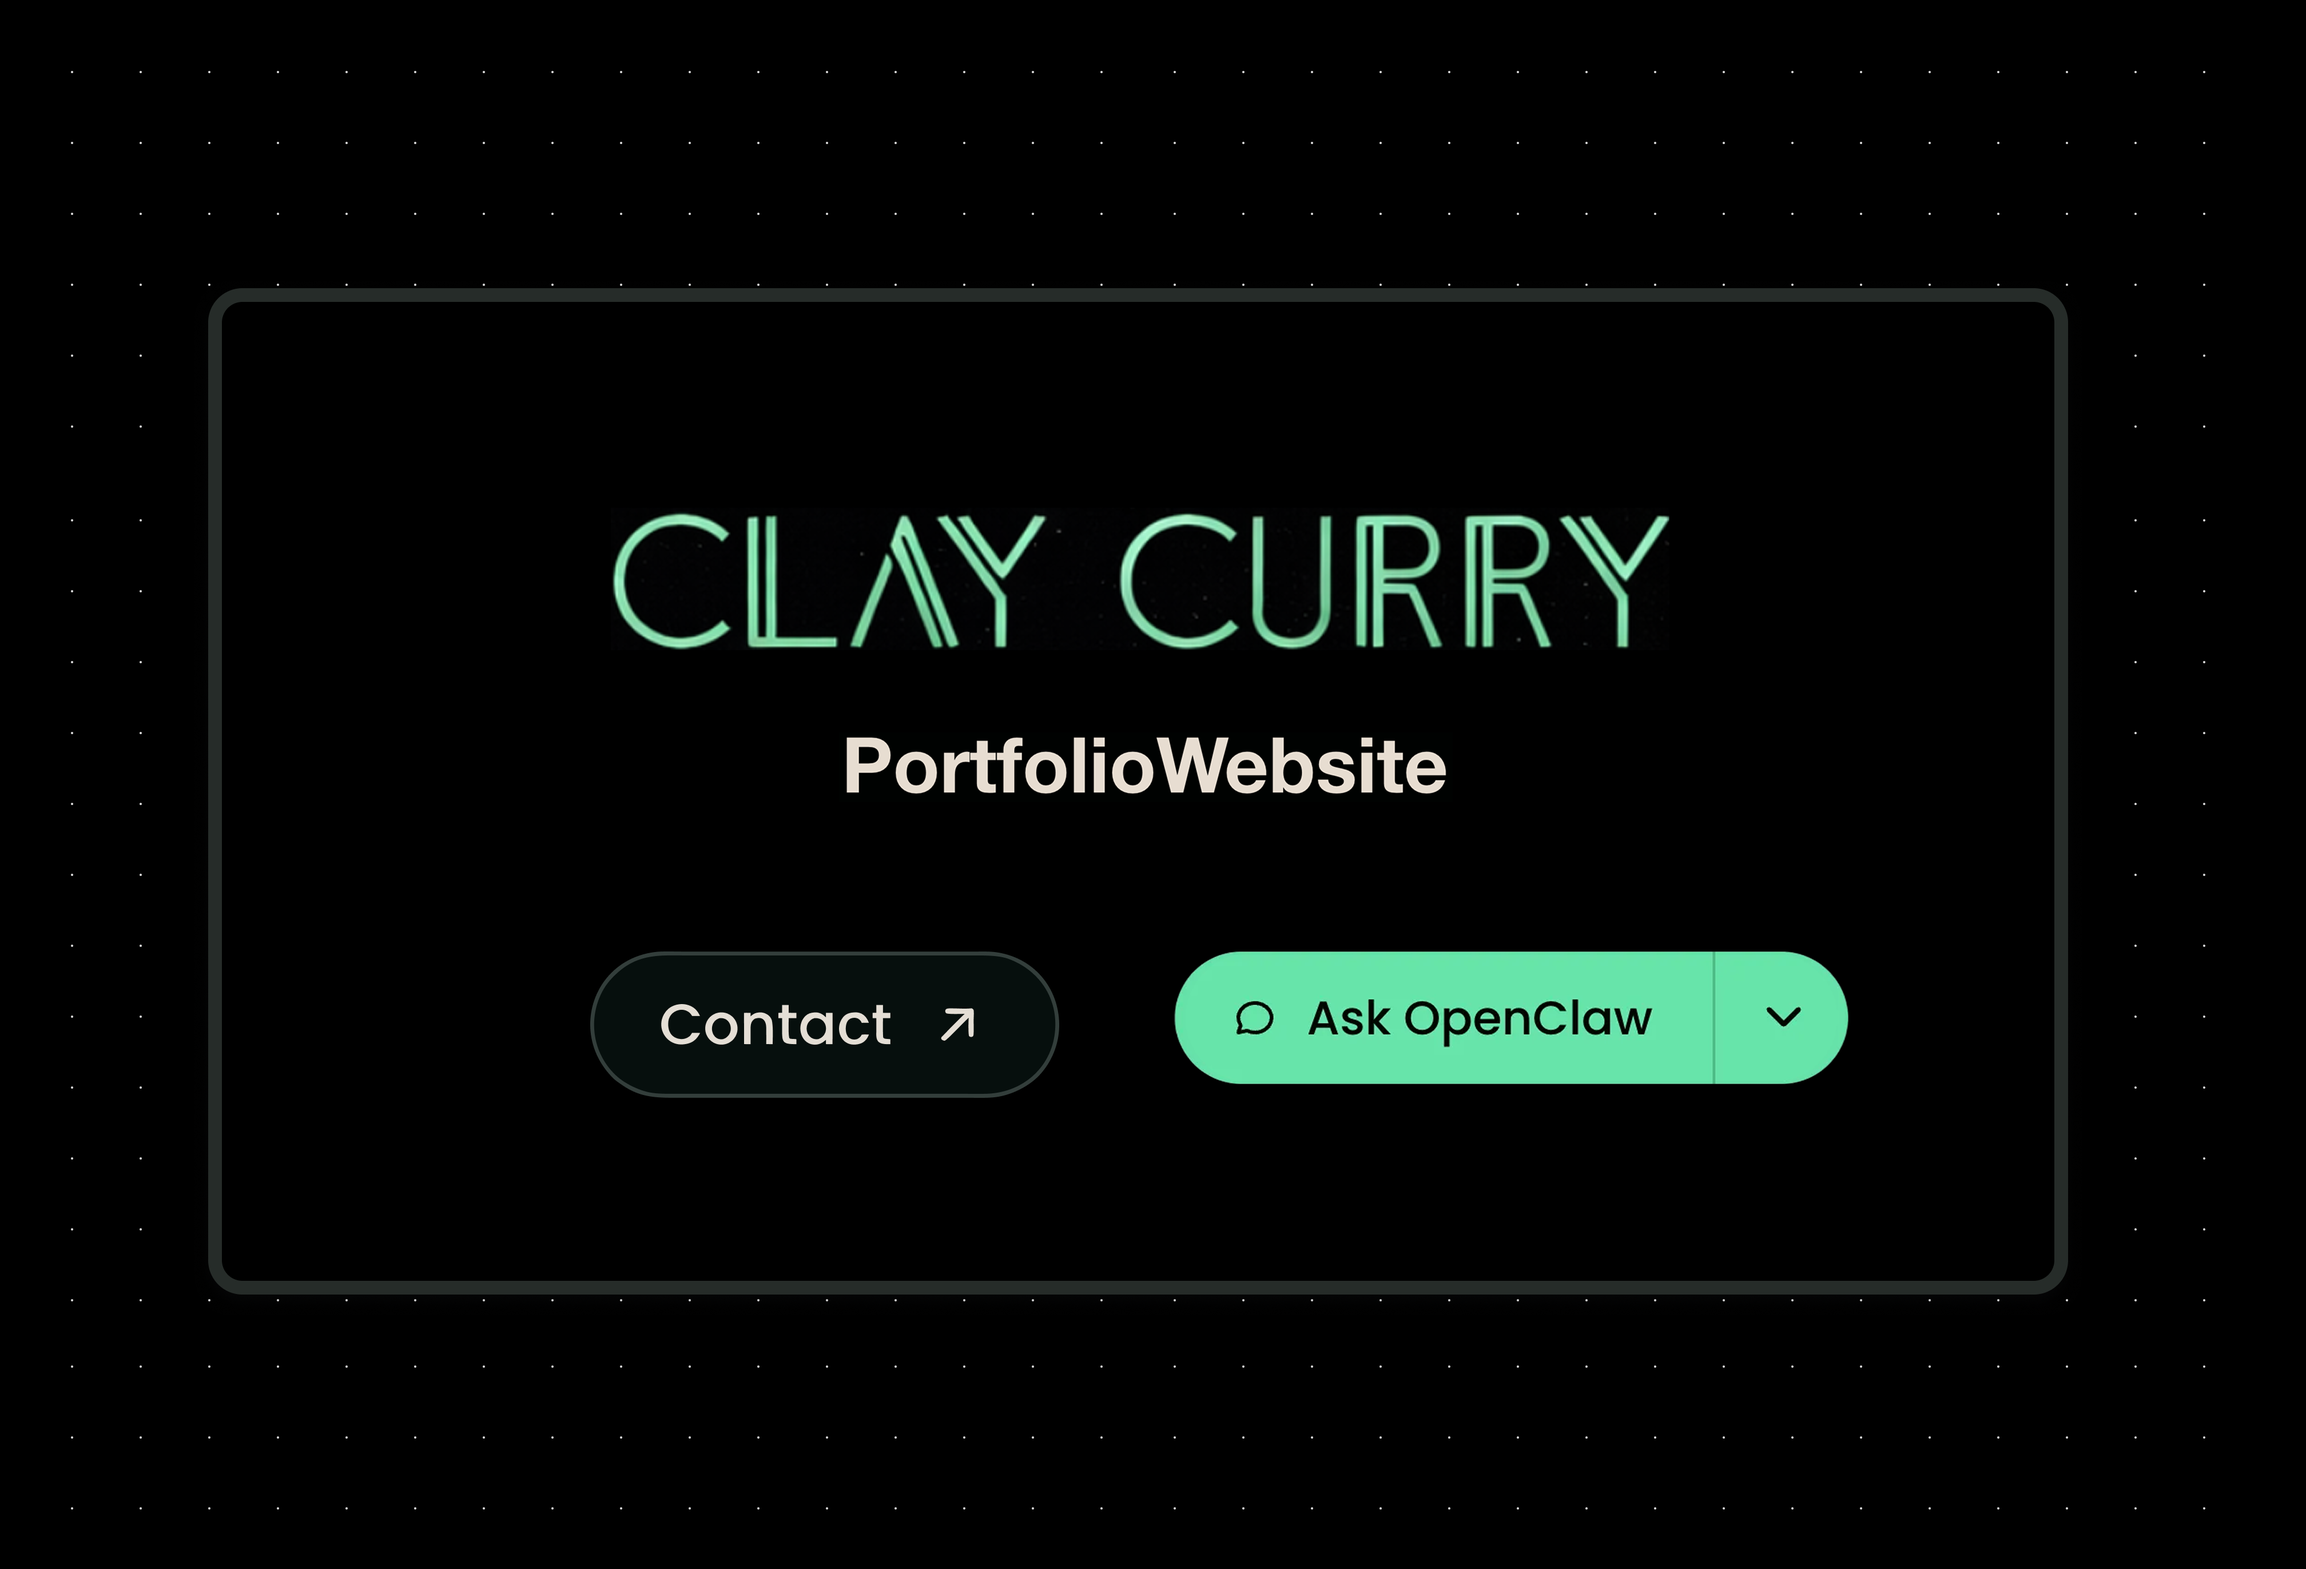
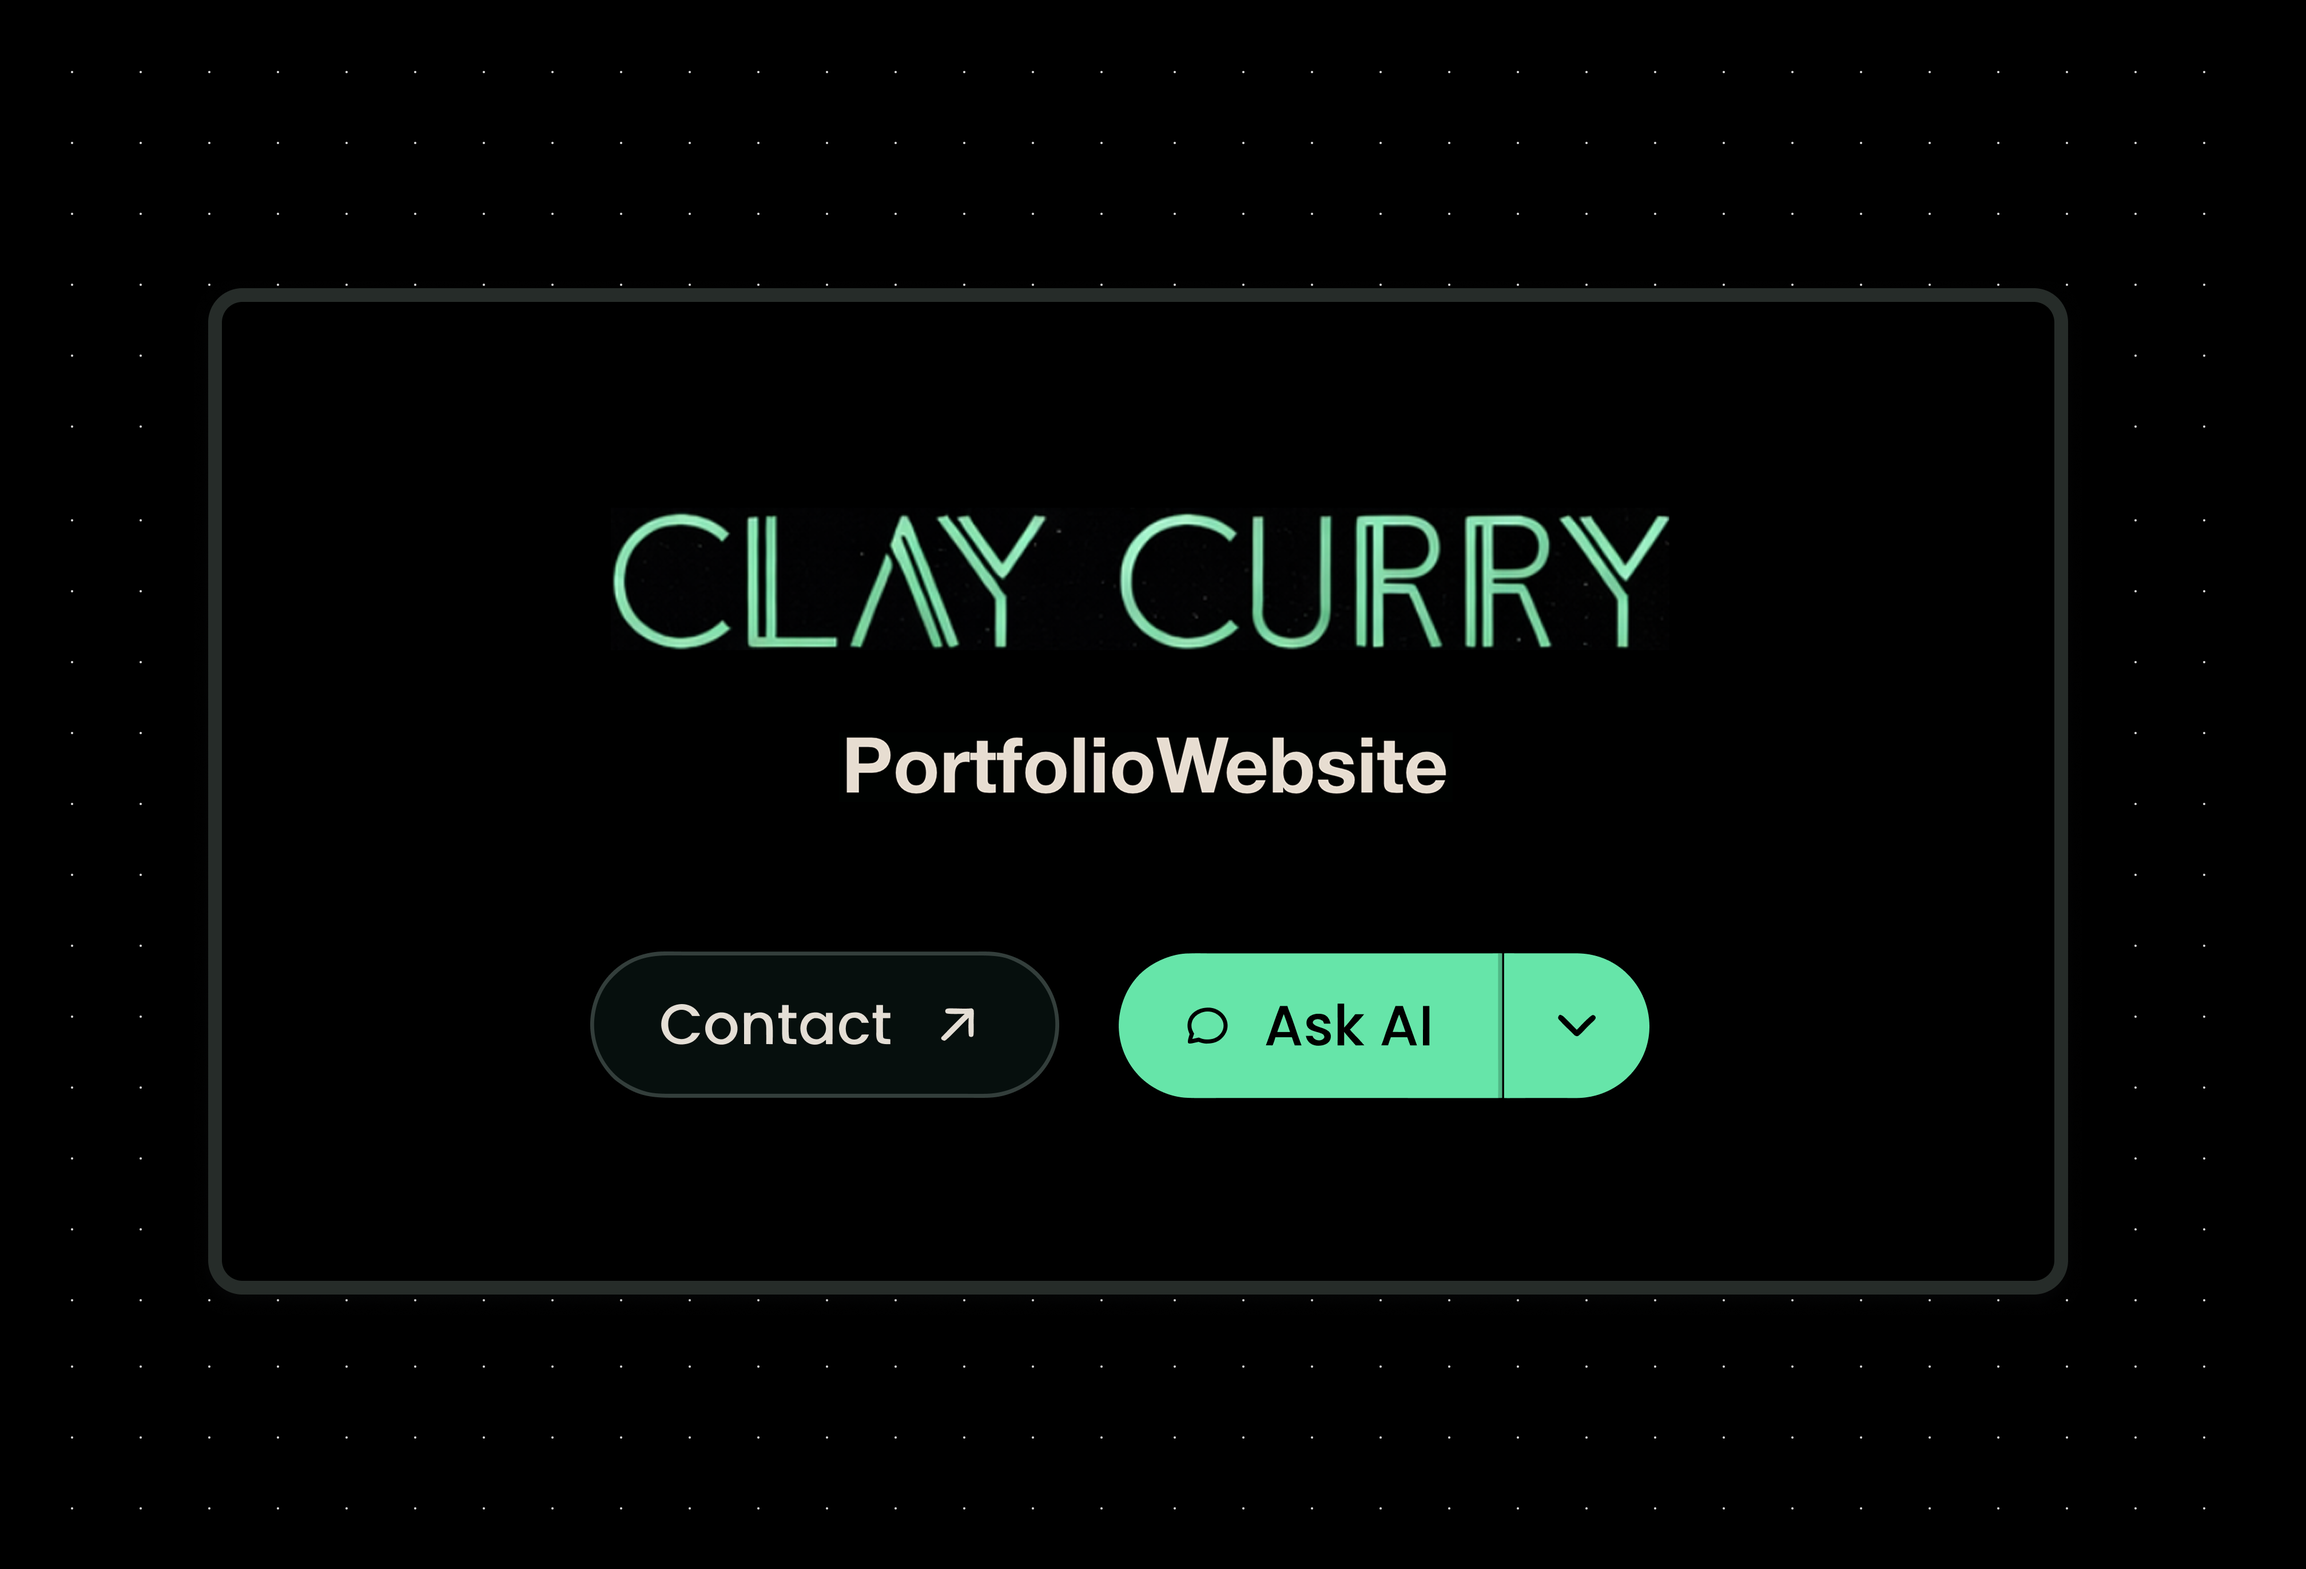
fix(www): rename button label to "Ask AI" and update OG image

Changed region(s): [[0.4688, 0.5886, 0.8125, 0.7125]]

diff --git a/apps/www/lib/components/chat/hero-contact-ask-ai.tsx b/apps/www/lib/components/chat/hero-contact-ask-ai.tsx
@@ -48,7 +48,7 @@ export function HeroContactAskAI() {
           onClick={() => setIsDialogOpen(true)}
         >
           <IconMessageCircle className="size-3" />
-          Ask OpenClaw
+          Ask AI
         </Button>
 
         {/* Dropdown trigger - model selection */}
